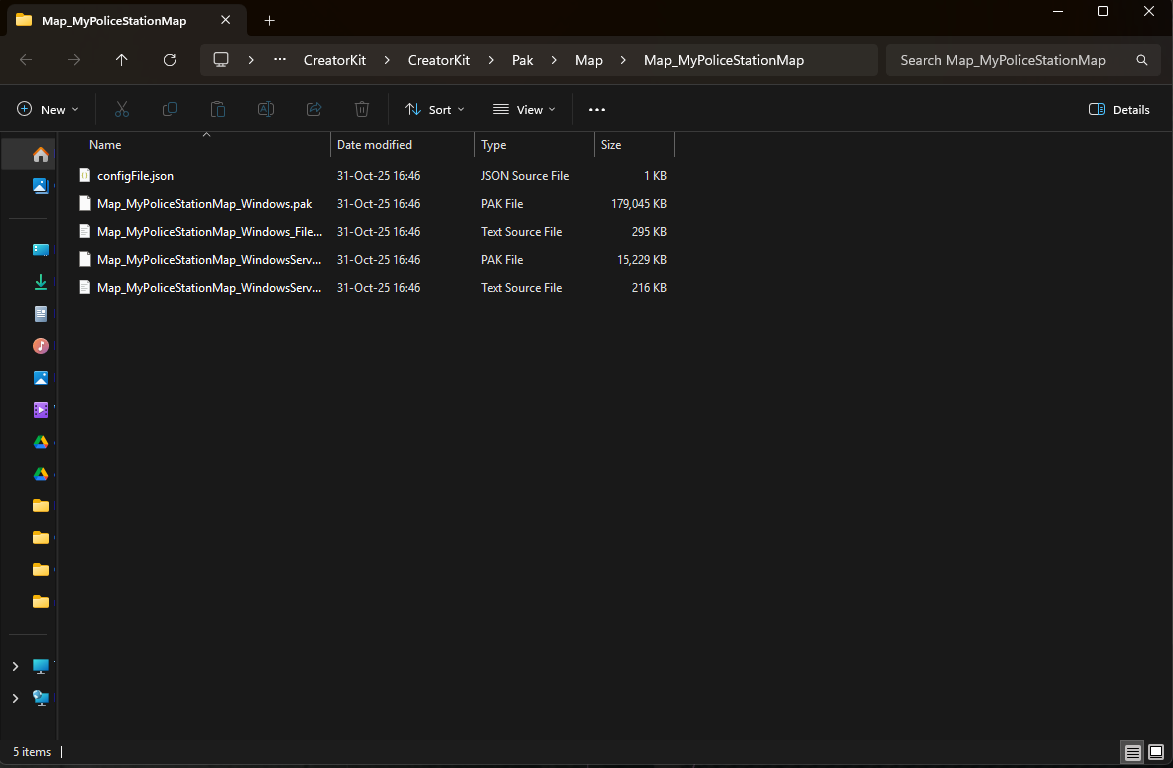
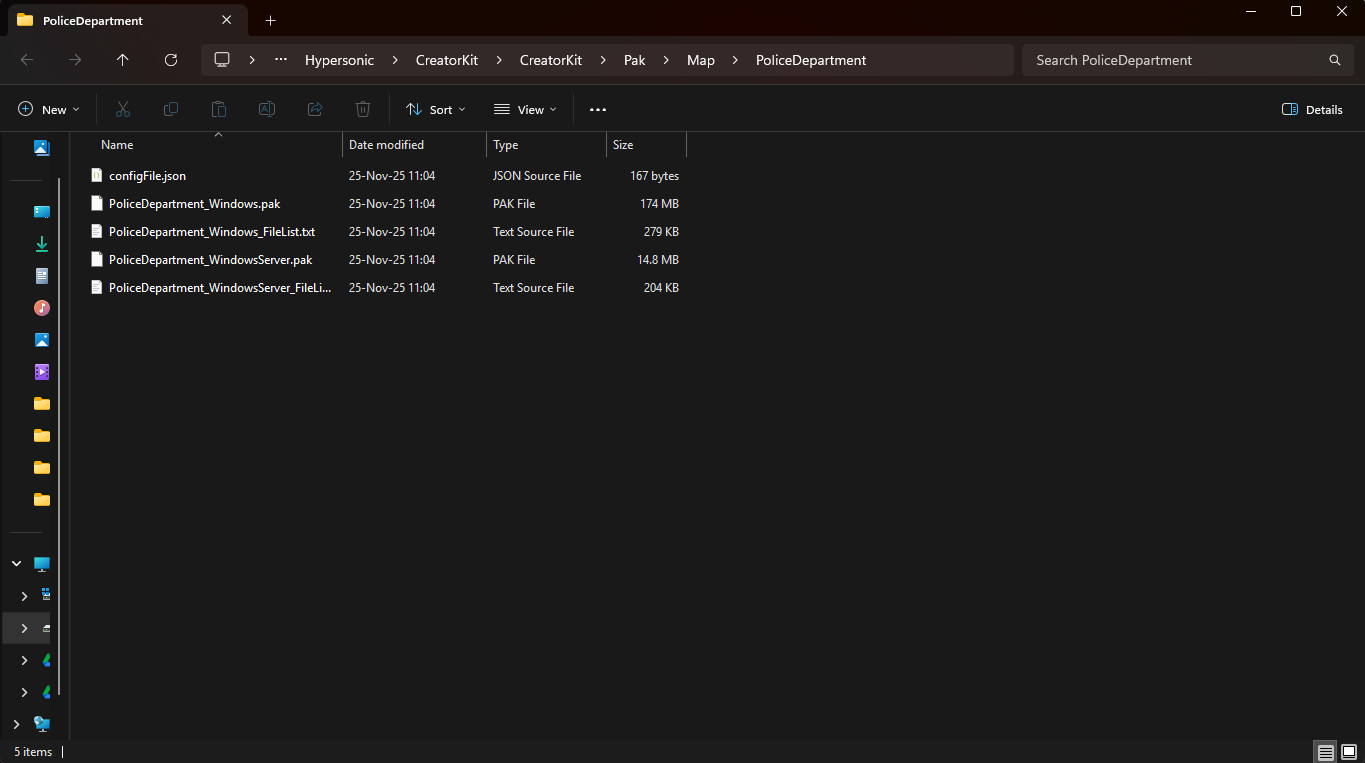
Update map tutorial

diff --git a/docs/tutorials/custom_maps.md b/docs/tutorials/custom_maps.md
@@ -40,45 +40,9 @@ For this tutorial, we will be using a police station asset acquired from Fab.
 
     ![image.png](CustomMapImages/7.png)
 
-8. Access the **HELIX Packaging Tool** from the main toolbar.
+8. To convert your migrated folder into a HELIX package, right click to the folder in content browser, and select **Convert to Package (Map)**. This will create required metadata and make your folder visible in HELIX packaging tool.
 
-9. In the packaging tool window, click **New Package**.
-
-10. Enter a unique Package Name (e.g., MyPoliceStationMap), and select **Map** as the **Package Type**.
-
-    ![image.png](CustomMapImages/8.png)
-
-11. Click **Add New Package**. This action creates a dedicated folder for your assets (e.g., **Content/Map_MyPoliceStationMap**).
-
-    ![image.png](CustomMapImages/9.png)
-
-12. Now, it's needed to move your level assets into this new package folder. For current scenario, we have a `Content/PoliceDepartment` folder with all the required assets for our map.
-
-13. Select all the folders (or just the root folder) you want to migrate, and then drag&drop them into your new package folder (e.g., **Content/Map_MyPoliceStationMap**). 
-
-    ![image.png](CustomMapImages/10_1.png)
-
-    ![image.png](CustomMapImages/10_2.png)
-
-14. Select **Move Here** from the dropdown menu.
-
-    ![image.png](CustomMapImages/10_3.png)
-
-    ![image.png](CustomMapImages/10_4.png)
-
-15. After process is done, right click to your old migrated folder and click **Update Redirector References** from dropdown menu. This will clean redirector assets automatically created during the previous step.
-
-    ![image.png](CustomMapImages/11_1.png)
-
-16. Click red **Delete Unreferenced Redirectors** button on next window and wait. This might take a while.
-
-    ![image.png](CustomMapImages/11_2.png)
-
-    ![image.png](CustomMapImages/11_3.png)
-
-17. After process is done, you should have a custom map package with all your assets placed in.
-
-    ![image.png](CustomMapImages/12.png)
+    ![image.png](CustomMapImages/u_1.png)
 
 ---
 
@@ -166,9 +130,11 @@ If your level has door meshes that you want to make interactable by players, you
 
 ## 5. Finalizing and Cooking The Package
 
-1. Make sure all the depending assets by your custom character mesh are placed inside same package folder. If one of those assets are placed outside of the created package folder, cooked `.pak` file will have missing dependencies and this might cause crashes or runtime errors during playthrough with this package.
+1. Make sure all the depending assets by your custom map are placed inside same package folder. If one of those assets are placed outside of the created package folder, cooked `.pak` file will have missing dependencies and this might cause crashes or runtime errors during playthrough with this package.
 
 2. Return to the HELIX Packaging Tool window.
+
+    ![image.png](CustomMapImages/u_2.png)
 
 3. Go into your package and choose **Main Asset** to the level asset you would like to use for your package. This is should be the persistent level you used for your map.
 
@@ -176,7 +142,7 @@ If your level has door meshes that you want to make interactable by players, you
 
 3. Click package button and wait for cook process to complete.
 
-4. Once cooking is complete, a file explorer window will automatically open, displaying your final `.pak` files. Your custom character mesh is now ready to be uploaded to the **Creator Hub**!
+4. Once cooking is complete, a file explorer window will automatically open, displaying your final `.pak` files. Your custom map is now ready to be uploaded to the **Creator Hub**!
 
     ![image.png](CustomMapImages/25.png)
 
